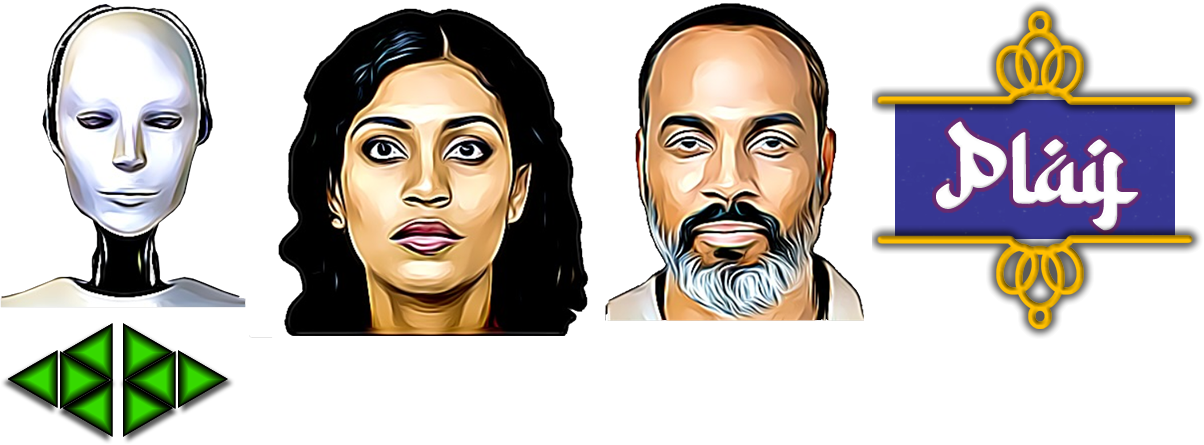
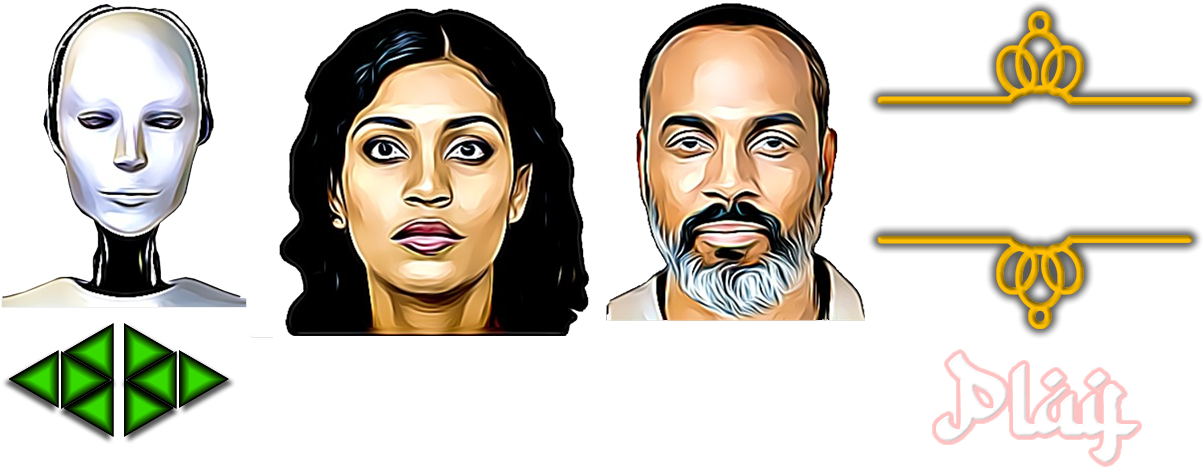
Player faces updated + Vignette
When the player is female, the correct image is now shown.
Added vignette overlay.
Added sand explosion particle effects to the loaded button and play button.
Before finishing the particle system I created a function to check for valid objects. Its not really needed at the minute but will be useful in the future, so it stays.
Ive split the play button into parts as it will have an animated background.

diff --git a/js/vars.js b/js/vars.js
@@ -1,7 +1,7 @@
 var vars = {
     DEBUG: false,
 
-    version: 0.972,
+    version: 0.973,
 
     clamp: Phaser.Math.Clamp,
 
@@ -21,7 +21,10 @@ var vars = {
         changeFace: ()=> {
             let player = vars.player.current;
             let pOb = vars.phaserObject.quickGet('playerFace');
-            scene.tweens.add({ targets: pOb, alpha: 0, yoyo: true, onYoyo: (_t, _o)=> { _o.setFrame(`player${player}Face`); }, duration: 500 })
+            //pOb.setTexture('playerFacesF','playerFaces2F')
+            let textureName = vars.player[`p${vars.player.current}Face`][0]==='f' ? 'playerFacesF': 'playerFaces';
+            let frameName = `player${player}Face`;
+            scene.tweens.add({ targets: pOb, alpha: 0, yoyo: true, onYoyo: (_t, _o)=> { _o.setTexture(textureName, frameName); }, duration: 500 })
         },
 
         counterBounceTweensStop: ()=> {
@@ -606,6 +609,14 @@ var vars = {
             } else {
                 scene.tweens.add({ targets: container, y: vars.canvas.height-10, duration: duration, ease: 'Quad.easeIn', onComplete: (_t,_o)=> { _o[0].setAlpha(0.7); } })
             }
+        },
+
+        vignetteShow: (_obj)=> {
+            scene.tweens.add({
+                targets: _obj,
+                alpha: 1,
+                duration : 3000
+            })
         }
     },
 
@@ -1254,11 +1265,17 @@ var vars = {
                 console.error(`Highlighted object sent to updater (${_oName}) is not the same as the h var (${highlighted})`);
                 debugger;
             }
+        },
+
+        particleBounds: ()=>{
+            vars.particles.bounds = new Phaser.Geom.Rectangle(0, 0, 1920, 1080-10);
         }
+
     },
 
     input: {
         enabled: true,
+        clickedOn: null,
 
         init: function() {
             vars.DEBUG ? console.log('  .. 🎮 initialising input and vars') : null;
@@ -1365,17 +1382,23 @@ var vars = {
                 vars.game.rollDice();
             } else if (oName==='loadedButton') {
                 console.clear();
+                setTimeout( ()=> {
+                    vars.input.clickedOn=null;
+                },100)
                 gameObject.disableInteractive();
                 // fade out the loaded screen and text
                 // then start the game
                 let bg = vars.phaserObject.quickGet('loadedBG');
                 let btn = vars.phaserObject.quickGet('loadedButton');
-                let dur=2000;
-                if (vars.DEBUG) { dur=0; }
+                500;
+                let dur = vars.DEBUG ? 0 : 500;
                 scene.tweens.add({ targets: [bg,btn], alpha: 0, duration: dur, onComplete: vars.phaserObject.destroy })
 
-                // play menu ok sound
-                vars.audio.playSound('menuOK');
+                // make the loaded button explode into sand
+                vars.input.clickedOn = 'loadedButton';
+                vars.particles.available.sandExplosion.emitParticle();
+                // play menu ok sound - changed to sand hit to match particles
+                vars.audio.playSound('sandHit'); //menuOK
 
                 setTimeout( ()=> {
                     vars.init(3);
@@ -1398,8 +1421,12 @@ var vars = {
                 vars.audio.playSound('menuClick');
                 vars.UI.changePlayerFace(gameObject);
             } else if (oName === 'optPlay') {
-                // play menu ok sound
                 gameObject.disableInteractive();
+                // sand explosion
+                vars.input.clickedOn='optPlay';
+                vars.particles.available.sandExplosion.emitters.list[0].setQuantity(512).setScale(0.2).setLifespan(2000);
+                vars.particles.available.sandExplosion.emitParticle();
+                // play menu ok sound
                 vars.audio.playSound('menuOK');
 
                 vars.init(4);
@@ -1495,8 +1522,19 @@ var vars = {
         init: function() {
             // particles are stored here
             console.log('  .. 🎆 initialising particles and vars');
-            
+
             // sand hit
+            vars.particles.diceGroundHitInit();
+
+            // sand explosion for the loaded image
+            vars.particles.sandExplosionInit();
+
+            /* scene.input.on('pointerdown', function (pointer) {
+                vars.particles.available.sand.emitParticleAt(pointer.x, pointer.y);
+            }); */
+        },
+
+        diceGroundHitInit: ()=> {
             let depth = consts.depths.diceBG+1;
             vars.particles.available.sand = scene.add.particles('sandParticleImage').setDepth(depth);
             vars.particles.available.sand.createEmitter({
@@ -1509,11 +1547,50 @@ var vars = {
                 scale: { start: 0.5, end: 0 },
                 on: false
             });
+        },
 
+        sandExplosionInit: (_src=logoSource)=> {
+            let depth = consts.depths.loading+1;
+            vars.particles.available.sandExplosion = scene.add.particles('sandParticleImage').setDepth(depth);
+            vars.graphics.particleBounds();
+            let vs = {
+                fall: {
+                    lifespan: 3000, gravityX: 0, gravityY: 1000, bounceMin: 0.3, bounceMax: 0.5, quantity: 1024, angleMin: 0, angleMax: 360, steps: 128
+                },
+                wind: {
+                    lifespan: 2000, gravityX: 300, gravityY: 0, bounceMin: 0, bounceMax: 0, quantity: 512, angleMin: 0, angleMax: 0, steps: 0
+                }
+            }
+            let thisV = vs.fall;
+            vars.particles.available.sandExplosion.createEmitter({
+                x: 0, y: 0,
+                scale: 0.3,
+                speed: { min: 100, max: 300 },
+                tint: 0xEEB300,
+                lifespan: thisV.lifespan,
+                gravityX: thisV.gravityX,
+                gravityY: thisV.gravityY,
+                angle: { start: thisV.angleMin, end: thisV.angleMax, steps: thisV.steps },
+                alpha: { start: 1, end: 0 }, blendMode: 'ADD',
+                quantity: thisV.quantity,
+                bounce: { min: thisV.bounceMin, max: thisV.bounceMax },
+                bounds: vars.particles.bounds,
+                emitZone: { type: 'random', source: _src },
+                on: false
+            });
+        },
 
-            /* scene.input.on('pointerdown', function (pointer) {
-                vars.particles.available.sand.emitParticleAt(pointer.x, pointer.y);
-            }); */
+        sandExplosionRun: (_oName=null)=> {
+            if (_oName===null) { return false; }
+            else {
+                let qg = vars.phaserObject.quickGet;
+                let obj = qg(_oName);
+                if (obj!==undefined) {
+
+                } else {
+                    console.error(`Object with name ${_oName} was not found!`);
+                }
+            }
         }
     },
 
@@ -1632,6 +1709,11 @@ var vars = {
     },
 
     UI: {
+        /*
+        ◄████████████████████████►
+        ◄███► START OF INITS ◄███►
+        ◄████████████████████████►
+        */
         init: ()=> {
             console.log('  ..initialising the UI');
 
@@ -1744,8 +1826,9 @@ var vars = {
             let p2Image = scene.add.image(p2x, pY, 'options').setName('opt_p2i').setFrame('faceFemale').setDepth(depth);
             
             let optPlay = scene.add.image(cV.cX, cV.height-200, 'options').setFrame('optPlay').setName('optPlay').setDepth(depth).setInteractive();
+            let optPlayText = scene.add.image(cV.cX, cV.height-200, 'options').setFrame('optPlayText').setName('optPlayText').setDepth(depth);
 
-            scene.groups.options.addMultiple([bg,p1Title,p2Title,p1Image,p2Image,optPlay]);
+            scene.groups.options.addMultiple([bg,p1Title,p2Title,p1Image,p2Image,optPlay,optPlayText]);
 
             // add the 4 "select player" buttons
             let y = 300;
@@ -1783,6 +1866,14 @@ var vars = {
             setTimeout( ()=> { vars.UI.showVolumeOptions(false); }, 1000)
 
         },
+        /*
+        ◄████████████████████████►
+        ◄███►  END OF INITS  ◄███►
+        ◄████████████████████████►
+        */
+
+
+
 
         changePlayerFace: (_object)=> { // the object entering here is the arrow
             let player = _object.name.includes('p1') ? 1 : 2;

diff --git a/js/engineVars.js b/js/engineVars.js
@@ -95,10 +95,6 @@ vars.files = {
         fV.images.init();
     },
 
-    initNext: ()=> {
-
-    },
-
     audio: {
         init: ()=> {
             let o = '.ogg';
@@ -134,19 +130,19 @@ vars.files = {
 
     images: {
         init: ()=> {
-            scene.load.image('sandBG',       'images/sand.jpg');
-            scene.load.image('boardBG',      'images/board.png');
-            scene.load.atlas('counters',     'images/counters.png',      'images/counters.json');
-            scene.load.atlas('dice',         'images/dice.png',          'images/dice.json');
-            scene.load.atlas('options',      'images/optionImages.png',  'images/optionImages.json');
-            scene.load.atlas('optionsVolume','images/optionsVolume.png', 'images/optionsVolume.json');
-            scene.load.atlas('playerFaces',  'images/playerFaces.png',   'images/playerFaces.json');
-            scene.load.atlas('playerFacesF', 'images/playerFacesF.png',  'images/playerFacesF.json');
-            scene.load.image('playButtonBG', 'images/playButtonBG.jpg');
-            scene.load.image('loadedBG',     'images/loadedScreen.jpg');
-            scene.load.image('loadedButton', 'images/loaded.png');
-            scene.load.image('shielded',     'images/shielded.png');
-            scene.load.image('whitePixel',   'images/whitePixel.png');
+            scene.load.image('sandBG',         'images/sand.jpg');
+            scene.load.image('boardBG',        'images/board.png');
+            scene.load.atlas('counters',       'images/counters.png',      'images/counters.json');
+            scene.load.atlas('dice',           'images/dice.png',          'images/dice.json');
+            scene.load.atlas('options',        'images/optionImages.png',  'images/optionImages.json');
+            scene.load.atlas('optionsVolume',  'images/optionsVolume.png', 'images/optionsVolume.json');
+            scene.load.atlas('playerFaces',    'images/playerFaces.png',   'images/playerFaces.json');
+            scene.load.atlas('playerFacesF',   'images/playerFacesF.png',  'images/playerFacesF.json');
+            scene.load.image('playButtonBG',   'images/playButtonBG.jpg');
+            scene.load.image('loadedBG',       'images/loadedScreen.jpg');
+            scene.load.image('loadedButton',   'images/loaded.png');
+            scene.load.image('shielded',       'images/shielded.png');
+            scene.load.image('whitePixel',     'images/whitePixel.png');
 
             // particles
             scene.load.image('sandParticleImage', 'particles/whiteSmall.png');
@@ -208,5 +204,36 @@ vars.phaserObject = {
     quickGet: (_oN=null)=> {
         if (_oN===null) { return false; }
         return scene.children.getByName(_oN);
+    }
+}
+
+var logoSource = {
+    getRandomPoint: function (vec) {
+        let textureKey = vars.input.clickedOn;
+        if (textureKey===null) { return false; }
+        let qg = vars.phaserObject.quickGet;
+        let frameName = 'loadedButton';
+        if (textureKey!=='loadedButton') { // this is probably the play button (this should be moved to its own function so we have a specific place that deals with anything other than the loadedButton)
+            frameName = textureKey;
+            textureKey = 'options';
+        } else {
+            textureKey = null;
+        }
+
+        let obj = qg(frameName);
+        let origin = obj.getTopLeft();
+        let logo = { width: obj.width, height: obj.height }; 
+        let pixel;
+        do {
+            var x = Phaser.Math.Between(0, logo.width - 1);
+            var y = Phaser.Math.Between(0, logo.height - 1);
+            if (textureKey===null) {
+                pixel = scene.textures.getPixel(x, y, frameName);
+            } else {
+                pixel = scene.textures.getPixel(x, y, textureKey, frameName);
+            }
+
+        } while (pixel.alpha < 255);
+        return vec.setTo(x + origin.x, y + origin.y);
     }
 }

diff --git a/js/init.js b/js/init.js
@@ -27,8 +27,9 @@ var config = {
 
         pack: {
             files: [
-                { type: 'image', key: 'loadingBG', url: 'assets/images/loadingScreen.jpg' },
-                { type: 'image', key: 'loadingText', url: 'assets/images/loadingText.png' }
+                { type: 'image', key: 'loadingBG',   url: 'assets/images/loadingScreen.jpg' },
+                { type: 'image', key: 'loadingText', url: 'assets/images/loadingText.png' },
+                { type: 'image', key: 'vignette',    url: 'assets/images/vignette.png' }
             ]
         }
     },
@@ -52,7 +53,9 @@ fetch("./assets/fileList.json").then(response => {
     fV.fileSizes=data;
     // by the time we can show a loading bar, the loadingScreen and Text will already have loaded, so we add them here
     let fSV = fV.fileSizes;
-    fSV.details.loadedSize=fSV.files['loadingScreen.jpg'] + fSV.files['loadingText.png'];
+    fSV.details.loadedSize=fSV.files['loadingScreen.jpg'] + fSV.files['loadingText.png'] + fSV.files['vignette.png'];
+    let lS = 'Loaded';
+    fSV.files['loadingScreen.jpg'] = lS; fSV.files['loadingText.png'] = lS; fSV.files['vignette.png'] = lS;
     game = new Phaser.Game(config);
 });
 
@@ -68,6 +71,10 @@ function preload() {
     this.load.plugin('rexoutlinepipelineplugin', 'js/frameworks/rexoutlinepipelineplugin.min.js', true);
     // var pipelineInstance = scene.plugins.get('rexoutlinepipelineplugin').add(gameObject, config); // <-- used when attaching to an image. This plug in has image outline!
     scene = this;
+
+    // add the vignette
+    let vig = scene.add.image(vars.canvas.cX, vars.canvas.cY, 'vignette').setTint(0x000000).setDepth(255).setName('vignette').setAlpha(0);
+    vars.animate.vignetteShow(vig);
 
     // set up the loading progress bar
     let dDepth = consts.depths.debug;

diff --git a/js/cpu.js b/js/cpu.js
@@ -536,5 +536,5 @@ vars.player.AI.getBestMove = (_movables)=> {
         }
         let cObj = vars.phaserObject.quickGet(counterName);
         vars.animate.counterToNewPosition(cObj);
-    },1000)
+    }, 1000)
 }
